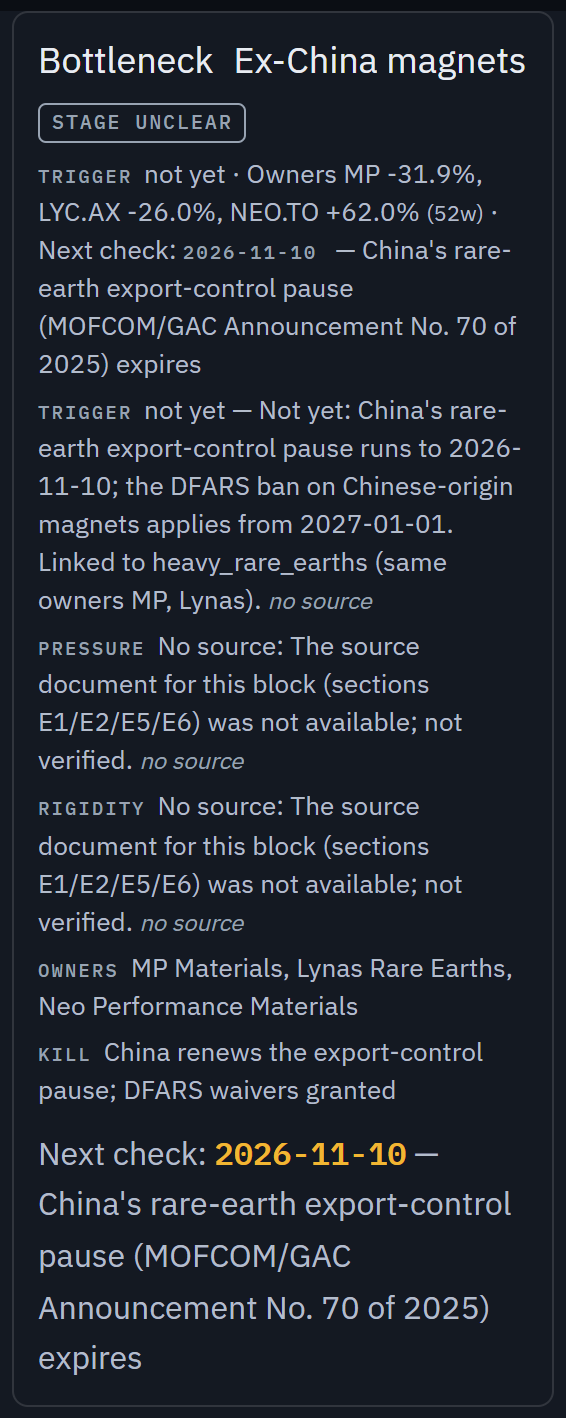
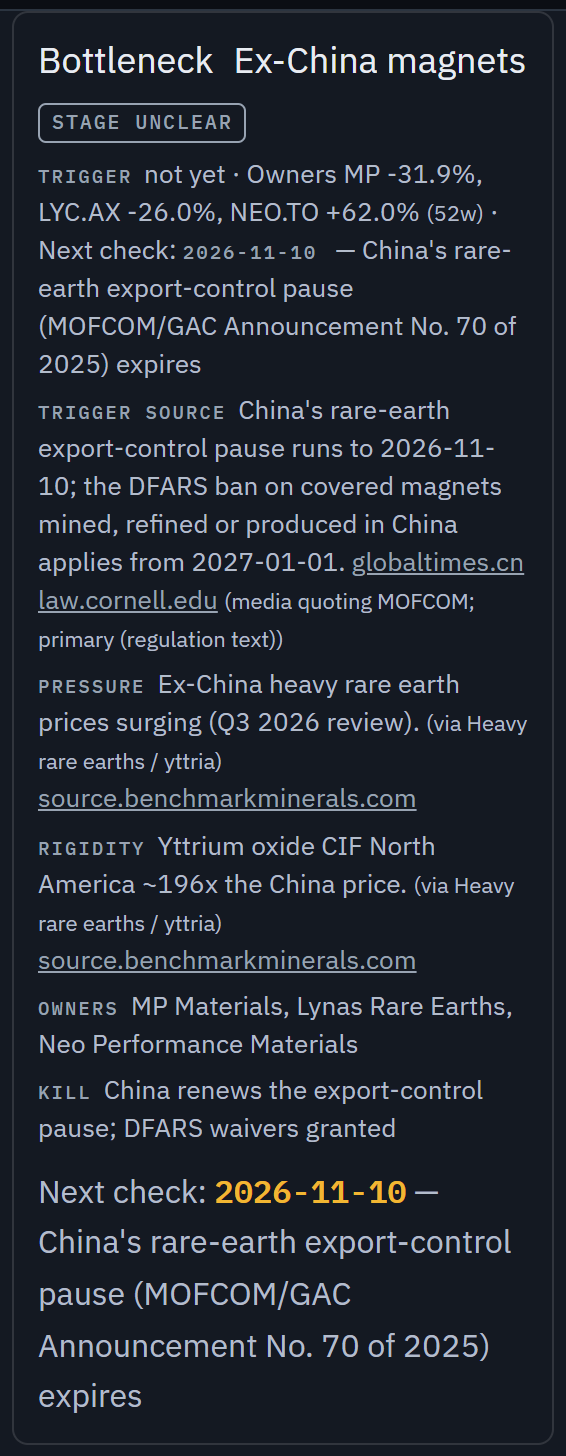
Tier-A: sourced triggers, card rules, dot rule
Sources from tier-a-sources-2026-10-02.md plus three primaries found:
BHI half-year report (DART), Wartsila half-year report, PFISTERER H1
report. All four energy triggers are fired on a fetched source; S&P
Global (403) is not used. exchina_magnets links its pressure and rigidity
to heavy_rare_earths and carries the MOFCOM (via Global Times) and DFARS
sources on its trigger.

Cards: unsourced or empty rows are hidden; a bottleneck with neither a
sourced pressure nor a sourced rigidity is not rendered (card, ring or
dot); one trigger summary line plus a "Trigger source" line; English-only
catalyst labels. The not-yet dot skips owners up 100%+ over 52 weeks.
hv_cable_accessories no longer maps hurt to cable makers.

diff --git a/chains/templates/live-map.html b/chains/templates/live-map.html
@@ -778,15 +778,27 @@ const cls=v=>v==null?'':(v<0?'neg':'pos');
 // Text from the data, made safe to put inside HTML. This script has no esc() of
 // its own -- the card scripts further down do, in their own scope.
 const escHtml=v=>String(v==null?'':v).replace(/[&<>"]/g, c=>({'&':'&amp;','<':'&lt;','>':'&gt;','"':'&quot;'}[c]));
-const BN = {lagLegend:'הטריגר הופעל, המחיר לא הלך אחריו. תיאור, לא תחזית.', nyLegend:'הטריגר עוד לא הופעל. מוצג מועד הבדיקה הבא. תיאור, לא תחזית.', fired:'הטריגר הופעל', node:'התחנה הזו', leader:'המובילה', exp:'חשיפה', expW:{low:'נמוכה',medium:'בינונית',high:'גבוהה'}, cyc:{peaking:'המחזור בשיא',resolving:'המחזור נרגע'}, risk:'סיכון שיא', next:'הבדיקה הבאה', title:'צוואר בקבוק', stage:{tightening:'מתהדק',peaking:'בשיא',resolving:'נרגע',unclear:'שלב לא ברור'}, trig:{fired:'הופעל',not_yet:'עוד לא',unclear:'לא ברור'}, pressure:'לחץ', rigidity:'קשיחות', trigger:'טריגר', owners:'בעלים', hurt:'נפגעים (יורד אם כן)', prop:'התפשטות', kill:'תנאי ביטול', src:'מקור', nosrc:'אין מקור'};
+const BN = {lagLegend:'הטריגר הופעל, המחיר לא הלך אחריו. תיאור, לא תחזית.', nyLegend:'הטריגר עוד לא הופעל. מוצג מועד הבדיקה הבא. תיאור, לא תחזית.', tsrc:'מקור הטריגר', via:'דרך', fired:'הטריגר הופעל', node:'התחנה הזו', leader:'המובילה', exp:'חשיפה', expW:{low:'נמוכה',medium:'בינונית',high:'גבוהה'}, cyc:{peaking:'המחזור בשיא',resolving:'המחזור נרגע'}, risk:'סיכון שיא', next:'הבדיקה הבאה', title:'צוואר בקבוק', stage:{tightening:'מתהדק',peaking:'בשיא',resolving:'נרגע',unclear:'שלב לא ברור'}, trig:{fired:'הופעל',not_yet:'עוד לא',unclear:'לא ברור'}, pressure:'לחץ', rigidity:'קשיחות', trigger:'טריגר', owners:'בעלים', hurt:'נפגעים (יורד אם כן)', prop:'התפשטות', kill:'תנאי ביטול', src:'מקור', nosrc:'אין מקור'};
 // Bottlenecks (map.json "bottlenecks"). The lagging line and ring are a
 // DESCRIPTION -- a fired trigger whose ring has not followed -- and never a
 // forecast: nothing here is scored. See chains/lagging.py.
-function lagOf(n){ const l=(n.bn||[]).filter(e=>e.kind==='lag'&&e.lagging);
+function lagOf(n){ const l=(n.bn||[]).filter(e=>e.kind==='lag'&&e.lagging&&bnPublicId(e.b));
   return l.length ? {half:l.every(e=>e.exposure==='high')} : null; }
-function bnLines(n){ return (n.bn||[]).map(e=> e.kind==='lag'
+function bnLines(n){ return (n.bn||[]).filter(e=>bnPublicId(e.b)).map(e=> e.kind==='lag'
   ? `<div class="bnlag${e.lagging?' on':''}" data-bn="${e.b}" data-lagging="${e.lagging}">${BN.fired} ${e.fired||''} · ${BN.node} ${pct(e.ret)} · ${BN.leader} ${escHtml((byId[e.leader_id]||{}).name||e.leader_id)} ${pct(e.leader_ret)} · ${BN.exp}: ${e.exposure?BN.expW[e.exposure]:'—'}</div>`
   : `<span class="cyc" data-bn="${e.b}">${BN.cyc[e.stage]||e.stage} · ${BN.risk} ${e.top_risk}/7</span>`).join(''); }
+// A card shows only sourced rows. A field may point at another bottleneck's
+// field ({see: id}) instead of repeating its text; it then shows that one's
+// sourced text, marked "via". A bottleneck with neither a sourced pressure nor
+// a sourced rigidity is not rendered at all -- no card, no ring, no dot.
+function bnById(id){ const F=(typeof FOCUS!=='undefined'&&FOCUS)||{}; return (F.bottlenecks||[]).find(b=>b.id===id); }
+function bnField(b, k){ const f=(b&&b[k])||{};
+  if(f.see){ const o=bnById(f.see), g=o&&o[k]; return g&&g.source_url?{...g, via:o.name}:null; }
+  return f.source_url?f:null; }
+const bnPublic=b=>!!(bnField(b,'pressure')||bnField(b,'rigidity'));
+let BNPUB=null;
+function bnPublicId(id){ if(!BNPUB){ const F=(typeof FOCUS!=='undefined'&&FOCUS)||{};
+    BNPUB=new Set((F.bottlenecks||[]).filter(bnPublic).map(b=>b.id)); } return BNPUB.has(id); }
 // The next check for a bottleneck: the earliest dated catalyst on or after the
 // snapshot's date, else the first one whose date is not confirmed (shown as such).
 function nextCheck(b){ const F=(typeof FOCUS!=='undefined'&&FOCUS)||{}, today=String(D.as_of||'');
@@ -805,27 +817,30 @@ function bnSummary(b){ const t=b.trigger||{}, nx=nextCheck(b);
 // dated next check inside 120 days.
 let NOTYET=null;
 function notYetOf(n){ if(!NOTYET){ const F=(typeof FOCUS!=='undefined'&&FOCUS)||{}, t0=Date.parse(String(D.as_of||''));
-    NOTYET=new Set(); (F.bottlenecks||[]).forEach(b=>{ if((b.trigger||{}).status!=='not_yet') return;
+    NOTYET=new Set(); (F.bottlenecks||[]).forEach(b=>{ if((b.trigger||{}).status!=='not_yet'||!bnPublic(b)) return;
       const nx=nextCheck(b), d=nx&&nx.date?(Date.parse(nx.date)-t0)/864e5:NaN;
-      if(d>=0&&d<=120) (b.owners||[]).forEach(i=>NOTYET.add(i)); }); }
+      // an owner already up 100% or more over 52 weeks is near or priced: no dot
+      if(d>=0&&d<=120) (b.owners||[]).forEach(i=>{ const px=byId[i]&&byId[i].px;
+        if(!(px&&px.r52w!=null&&px.r52w>=1.0)) NOTYET.add(i); }); }); }
   return NOTYET.has(n.id); }
 function bnCard(b, nid){
   const F=(typeof FOCUS!=='undefined'&&FOCUS)||{}, t=b.trigger||{}, today=String(D.as_of||'');
   const nm=i=>escHtml(byId[i]?byId[i].name:i);
-  const src=o=>o&&o.source_url?` <a href="${escHtml(o.source_url)}" target="_blank" rel="noopener">${BN.src}</a>`:` <span class="nosrc">${BN.nosrc}</span>`;
+  const src=o=>srcRefs(o&&o.source_url).filter(srcIsUrl).map(u=>` <a href="${escHtml(u)}" target="_blank" rel="noopener">${escHtml(srcHost(u))}</a>`).join('')
+    + (o&&o.source_type?` <small>(${escHtml(o.source_type)})</small>`:'');
+  const row=(l,f)=>f?`<div class="bnrow"><b>${l}</b>${escHtml(f.text||'')}${f.via?` <small>(${BN.via} ${escHtml(f.via)})</small>`:''}${src(f)}</div>`:'';
   const list=(l,ids)=>(ids||[]).length?`<div class="bnrow"><b>${l}</b>${ids.map(nm).join(', ')}</div>`:'';
   const nx=nextCheck(b);
   return `<div class="bnbox" data-bottleneck="${b.id}"><div class="bnhead"><span class="cpid">${BN.title}</span><span class="cpn">${escHtml(b.name)}</span><span class="bnstage s-${b.stage}">${BN.stage[b.stage]||b.stage}${b.top_risk?` · ${BN.risk} ${b.top_risk}/7`:''}</span></div>`
     + bnSummary(b)
-    + `<div class="bnrow"><b>${BN.trigger}</b><span class="trs t-${t.status}">${BN.trig[t.status]||t.status}</span>${t.date?' · '+t.date:''} — ${escHtml(t.what||'')}${src(t)}${t.source_type?` <small>(${t.source_type})</small>`:''}</div>`
-    + `<div class="bnrow"><b>${BN.pressure}</b>${escHtml((b.pressure||{}).text)}${src(b.pressure)}</div>`
-    + `<div class="bnrow"><b>${BN.rigidity}</b>${escHtml((b.rigidity||{}).text)}${src(b.rigidity)}</div>`
+    + (t.source_url?`<div class="bnrow" data-trigger-source><b>${BN.tsrc}</b>${t.date?escHtml(t.date)+' — ':''}${escHtml(t.what||'')}${src(t)}</div>`:'')
+    + row(BN.pressure, bnField(b,'pressure')) + row(BN.rigidity, bnField(b,'rigidity'))
     + list(BN.owners,b.owners)+list(BN.hurt,b.hurt)+list(BN.prop,b.propagation)
     + ((b.kill||[]).length?`<div class="bnrow"><b>${BN.kill}</b>${b.kill.map(k=>escHtml(k.criterion)+(k.date?' ('+k.date+')':'')).join('; ')}</div>`:'')
     + (nx?`<div class="nextcp" data-next-check>${BN.next}: <b>${escHtml(nx.date_text||nx.date)}</b> — ${escHtml(nx.what)}</div>`:'')
     + `</div>`; }
 function bnCards(n){ const F=(typeof FOCUS!=='undefined'&&FOCUS)||{};
-  return (F.bottlenecks||[]).filter(b=>[...b.owners,...b.hurt,...b.propagation].includes(n.id)).map(b=>bnCard(b,n.id)).join(''); }
+  return (F.bottlenecks||[]).filter(b=>bnPublic(b)&&[...b.owners,...b.hurt,...b.propagation].includes(n.id)).map(b=>bnCard(b,n.id)).join(''); }
 
 // A source is a list of references (a single string in an older snapshot), and
 // every URL in it is its own link: joined into one href they opened nothing.

diff --git a/chains/templates/live-map-en.html b/chains/templates/live-map-en.html
@@ -778,15 +778,27 @@ const cls=v=>v==null?'':(v<0?'neg':'pos');
 // Text from the data, made safe to put inside HTML. This script has no esc() of
 // its own -- the card scripts further down do, in their own scope.
 const escHtml=v=>String(v==null?'':v).replace(/[&<>"]/g, c=>({'&':'&amp;','<':'&lt;','>':'&gt;','"':'&quot;'}[c]));
-const BN = {lagLegend:'Trigger fired, price has not followed. Descriptive, not a forecast.', nyLegend:'Trigger not yet fired. Next dated check shown. Descriptive, not a forecast.', fired:'Trigger fired', node:'this node', leader:'leader', exp:'exposure', expW:{low:'low',medium:'medium',high:'high'}, cyc:{peaking:'cycle peaking',resolving:'cycle easing'}, risk:'top risk', next:'Next check', title:'Bottleneck', stage:{tightening:'tightening',peaking:'peaking',resolving:'resolving',unclear:'stage unclear'}, trig:{fired:'fired',not_yet:'not yet',unclear:'unclear'}, pressure:'Pressure', rigidity:'Rigidity', trigger:'Trigger', owners:'Owners', hurt:'Hurt (down if YES)', prop:'Propagation', kill:'Kill', src:'source', nosrc:'no source'};
+const BN = {lagLegend:'Trigger fired, price has not followed. Descriptive, not a forecast.', nyLegend:'Trigger not yet fired. Next dated check shown. Descriptive, not a forecast.', tsrc:'Trigger source', via:'via', fired:'Trigger fired', node:'this node', leader:'leader', exp:'exposure', expW:{low:'low',medium:'medium',high:'high'}, cyc:{peaking:'cycle peaking',resolving:'cycle easing'}, risk:'top risk', next:'Next check', title:'Bottleneck', stage:{tightening:'tightening',peaking:'peaking',resolving:'resolving',unclear:'stage unclear'}, trig:{fired:'fired',not_yet:'not yet',unclear:'unclear'}, pressure:'Pressure', rigidity:'Rigidity', trigger:'Trigger', owners:'Owners', hurt:'Hurt (down if YES)', prop:'Propagation', kill:'Kill', src:'source', nosrc:'no source'};
 // Bottlenecks (map.json "bottlenecks"). The lagging line and ring are a
 // DESCRIPTION -- a fired trigger whose ring has not followed -- and never a
 // forecast: nothing here is scored. See chains/lagging.py.
-function lagOf(n){ const l=(n.bn||[]).filter(e=>e.kind==='lag'&&e.lagging);
+function lagOf(n){ const l=(n.bn||[]).filter(e=>e.kind==='lag'&&e.lagging&&bnPublicId(e.b));
   return l.length ? {half:l.every(e=>e.exposure==='high')} : null; }
-function bnLines(n){ return (n.bn||[]).map(e=> e.kind==='lag'
+function bnLines(n){ return (n.bn||[]).filter(e=>bnPublicId(e.b)).map(e=> e.kind==='lag'
   ? `<div class="bnlag${e.lagging?' on':''}" data-bn="${e.b}" data-lagging="${e.lagging}">${BN.fired} ${e.fired||''} · ${BN.node} ${pct(e.ret)} · ${BN.leader} ${escHtml((byId[e.leader_id]||{}).name||e.leader_id)} ${pct(e.leader_ret)} · ${BN.exp}: ${e.exposure?BN.expW[e.exposure]:'—'}</div>`
   : `<span class="cyc" data-bn="${e.b}">${BN.cyc[e.stage]||e.stage} · ${BN.risk} ${e.top_risk}/7</span>`).join(''); }
+// A card shows only sourced rows. A field may point at another bottleneck's
+// field ({see: id}) instead of repeating its text; it then shows that one's
+// sourced text, marked "via". A bottleneck with neither a sourced pressure nor
+// a sourced rigidity is not rendered at all -- no card, no ring, no dot.
+function bnById(id){ const F=(typeof FOCUS!=='undefined'&&FOCUS)||{}; return (F.bottlenecks||[]).find(b=>b.id===id); }
+function bnField(b, k){ const f=(b&&b[k])||{};
+  if(f.see){ const o=bnById(f.see), g=o&&o[k]; return g&&g.source_url?{...g, via:o.name}:null; }
+  return f.source_url?f:null; }
+const bnPublic=b=>!!(bnField(b,'pressure')||bnField(b,'rigidity'));
+let BNPUB=null;
+function bnPublicId(id){ if(!BNPUB){ const F=(typeof FOCUS!=='undefined'&&FOCUS)||{};
+    BNPUB=new Set((F.bottlenecks||[]).filter(bnPublic).map(b=>b.id)); } return BNPUB.has(id); }
 // The next check for a bottleneck: the earliest dated catalyst on or after the
 // snapshot's date, else the first one whose date is not confirmed (shown as such).
 function nextCheck(b){ const F=(typeof FOCUS!=='undefined'&&FOCUS)||{}, today=String(D.as_of||'');
@@ -805,27 +817,30 @@ function bnSummary(b){ const t=b.trigger||{}, nx=nextCheck(b);
 // dated next check inside 120 days.
 let NOTYET=null;
 function notYetOf(n){ if(!NOTYET){ const F=(typeof FOCUS!=='undefined'&&FOCUS)||{}, t0=Date.parse(String(D.as_of||''));
-    NOTYET=new Set(); (F.bottlenecks||[]).forEach(b=>{ if((b.trigger||{}).status!=='not_yet') return;
+    NOTYET=new Set(); (F.bottlenecks||[]).forEach(b=>{ if((b.trigger||{}).status!=='not_yet'||!bnPublic(b)) return;
       const nx=nextCheck(b), d=nx&&nx.date?(Date.parse(nx.date)-t0)/864e5:NaN;
-      if(d>=0&&d<=120) (b.owners||[]).forEach(i=>NOTYET.add(i)); }); }
+      // an owner already up 100% or more over 52 weeks is near or priced: no dot
+      if(d>=0&&d<=120) (b.owners||[]).forEach(i=>{ const px=byId[i]&&byId[i].px;
+        if(!(px&&px.r52w!=null&&px.r52w>=1.0)) NOTYET.add(i); }); }); }
   return NOTYET.has(n.id); }
 function bnCard(b, nid){
   const F=(typeof FOCUS!=='undefined'&&FOCUS)||{}, t=b.trigger||{}, today=String(D.as_of||'');
   const nm=i=>escHtml(byId[i]?byId[i].name:i);
-  const src=o=>o&&o.source_url?` <a href="${escHtml(o.source_url)}" target="_blank" rel="noopener">${BN.src}</a>`:` <span class="nosrc">${BN.nosrc}</span>`;
+  const src=o=>srcRefs(o&&o.source_url).filter(srcIsUrl).map(u=>` <a href="${escHtml(u)}" target="_blank" rel="noopener">${escHtml(srcHost(u))}</a>`).join('')
+    + (o&&o.source_type?` <small>(${escHtml(o.source_type)})</small>`:'');
+  const row=(l,f)=>f?`<div class="bnrow"><b>${l}</b>${escHtml(f.text||'')}${f.via?` <small>(${BN.via} ${escHtml(f.via)})</small>`:''}${src(f)}</div>`:'';
   const list=(l,ids)=>(ids||[]).length?`<div class="bnrow"><b>${l}</b>${ids.map(nm).join(', ')}</div>`:'';
   const nx=nextCheck(b);
   return `<div class="bnbox" data-bottleneck="${b.id}"><div class="bnhead"><span class="cpid">${BN.title}</span><span class="cpn">${escHtml(b.name)}</span><span class="bnstage s-${b.stage}">${BN.stage[b.stage]||b.stage}${b.top_risk?` · ${BN.risk} ${b.top_risk}/7`:''}</span></div>`
     + bnSummary(b)
-    + `<div class="bnrow"><b>${BN.trigger}</b><span class="trs t-${t.status}">${BN.trig[t.status]||t.status}</span>${t.date?' · '+t.date:''} — ${escHtml(t.what||'')}${src(t)}${t.source_type?` <small>(${t.source_type})</small>`:''}</div>`
-    + `<div class="bnrow"><b>${BN.pressure}</b>${escHtml((b.pressure||{}).text)}${src(b.pressure)}</div>`
-    + `<div class="bnrow"><b>${BN.rigidity}</b>${escHtml((b.rigidity||{}).text)}${src(b.rigidity)}</div>`
+    + (t.source_url?`<div class="bnrow" data-trigger-source><b>${BN.tsrc}</b>${t.date?escHtml(t.date)+' — ':''}${escHtml(t.what||'')}${src(t)}</div>`:'')
+    + row(BN.pressure, bnField(b,'pressure')) + row(BN.rigidity, bnField(b,'rigidity'))
     + list(BN.owners,b.owners)+list(BN.hurt,b.hurt)+list(BN.prop,b.propagation)
     + ((b.kill||[]).length?`<div class="bnrow"><b>${BN.kill}</b>${b.kill.map(k=>escHtml(k.criterion)+(k.date?' ('+k.date+')':'')).join('; ')}</div>`:'')
     + (nx?`<div class="nextcp" data-next-check>${BN.next}: <b>${escHtml(nx.date_text||nx.date)}</b> — ${escHtml(nx.what)}</div>`:'')
     + `</div>`; }
 function bnCards(n){ const F=(typeof FOCUS!=='undefined'&&FOCUS)||{};
-  return (F.bottlenecks||[]).filter(b=>[...b.owners,...b.hurt,...b.propagation].includes(n.id)).map(b=>bnCard(b,n.id)).join(''); }
+  return (F.bottlenecks||[]).filter(b=>bnPublic(b)&&[...b.owners,...b.hurt,...b.propagation].includes(n.id)).map(b=>bnCard(b,n.id)).join(''); }
 
 // A source is a list of references (a single string in an older snapshot), and
 // every URL in it is its own link: joined into one href they opened nothing.

diff --git a/chains/build_pages.py b/chains/build_pages.py
@@ -196,8 +196,8 @@ TRANSLATIONS = [
  ("  const CONF = {lbl:'ודאות', lv:{S:'גבוהה', M:'בינונית', W:'נמוכה'}};",
   "  const CONF = {lbl:'Confidence', lv:{S:'strong', M:'medium', W:'weak'}};"),
  # The bottleneck card, the lagging line and the legend row.
- ("const BN = {lagLegend:'הטריגר הופעל, המחיר לא הלך אחריו. תיאור, לא תחזית.', nyLegend:'הטריגר עוד לא הופעל. מוצג מועד הבדיקה הבא. תיאור, לא תחזית.', fired:'הטריגר הופעל', node:'התחנה הזו', leader:'המובילה', exp:'חשיפה', expW:{low:'נמוכה',medium:'בינונית',high:'גבוהה'}, cyc:{peaking:'המחזור בשיא',resolving:'המחזור נרגע'}, risk:'סיכון שיא', next:'הבדיקה הבאה', title:'צוואר בקבוק', stage:{tightening:'מתהדק',peaking:'בשיא',resolving:'נרגע',unclear:'שלב לא ברור'}, trig:{fired:'הופעל',not_yet:'עוד לא',unclear:'לא ברור'}, pressure:'לחץ', rigidity:'קשיחות', trigger:'טריגר', owners:'בעלים', hurt:'נפגעים (יורד אם כן)', prop:'התפשטות', kill:'תנאי ביטול', src:'מקור', nosrc:'אין מקור'};",
-  "const BN = {lagLegend:'Trigger fired, price has not followed. Descriptive, not a forecast.', nyLegend:'Trigger not yet fired. Next dated check shown. Descriptive, not a forecast.', fired:'Trigger fired', node:'this node', leader:'leader', exp:'exposure', expW:{low:'low',medium:'medium',high:'high'}, cyc:{peaking:'cycle peaking',resolving:'cycle easing'}, risk:'top risk', next:'Next check', title:'Bottleneck', stage:{tightening:'tightening',peaking:'peaking',resolving:'resolving',unclear:'stage unclear'}, trig:{fired:'fired',not_yet:'not yet',unclear:'unclear'}, pressure:'Pressure', rigidity:'Rigidity', trigger:'Trigger', owners:'Owners', hurt:'Hurt (down if YES)', prop:'Propagation', kill:'Kill', src:'source', nosrc:'no source'};"),
+ ("const BN = {lagLegend:'הטריגר הופעל, המחיר לא הלך אחריו. תיאור, לא תחזית.', nyLegend:'הטריגר עוד לא הופעל. מוצג מועד הבדיקה הבא. תיאור, לא תחזית.', tsrc:'מקור הטריגר', via:'דרך', fired:'הטריגר הופעל', node:'התחנה הזו', leader:'המובילה', exp:'חשיפה', expW:{low:'נמוכה',medium:'בינונית',high:'גבוהה'}, cyc:{peaking:'המחזור בשיא',resolving:'המחזור נרגע'}, risk:'סיכון שיא', next:'הבדיקה הבאה', title:'צוואר בקבוק', stage:{tightening:'מתהדק',peaking:'בשיא',resolving:'נרגע',unclear:'שלב לא ברור'}, trig:{fired:'הופעל',not_yet:'עוד לא',unclear:'לא ברור'}, pressure:'לחץ', rigidity:'קשיחות', trigger:'טריגר', owners:'בעלים', hurt:'נפגעים (יורד אם כן)', prop:'התפשטות', kill:'תנאי ביטול', src:'מקור', nosrc:'אין מקור'};",
+  "const BN = {lagLegend:'Trigger fired, price has not followed. Descriptive, not a forecast.', nyLegend:'Trigger not yet fired. Next dated check shown. Descriptive, not a forecast.', tsrc:'Trigger source', via:'via', fired:'Trigger fired', node:'this node', leader:'leader', exp:'exposure', expW:{low:'low',medium:'medium',high:'high'}, cyc:{peaking:'cycle peaking',resolving:'cycle easing'}, risk:'top risk', next:'Next check', title:'Bottleneck', stage:{tightening:'tightening',peaking:'peaking',resolving:'resolving',unclear:'stage unclear'}, trig:{fired:'fired',not_yet:'not yet',unclear:'unclear'}, pressure:'Pressure', rigidity:'Rigidity', trigger:'Trigger', owners:'Owners', hurt:'Hurt (down if YES)', prop:'Propagation', kill:'Kill', src:'source', nosrc:'no source'};"),
  # The relationship diagram's phone view.
  ("  const REL = {view:'הצג קשרים', close:'סגור', title:'קשרים',\n    up:'עולה אם כן', down:'יורד אם כן', none:'אין סל רשום לשאלה הזו.',\n    scored:'טבעת שנייה · הסל הנמדד', diag:'תגובה ישירה · אבחון'};",
   "  const REL = {view:'View relationships', close:'Close', title:'Relationships',\n    up:'up if yes', down:'down if yes', none:'No basket is registered for this question.',\n    scored:'second ring · the scored basket', diag:'direct reaction · diagnostic'};"),

diff --git a/tests/test_closure.py b/tests/test_closure.py
@@ -28,10 +28,16 @@ SIGNALS = ("hike_decel_or_no_more_hikes", "all_suppliers_hiking", "capacity_x2_o
 FAILED = {"https://www.digitimes.com/news/a20260309PD233/pcb-topoint-2026-high-end-sales.html"}
 
 
+def refs(v):
+    """A source is one URL or a list of them (2026-10-02)."""
+    return v if isinstance(v, list) else [v]
+
+
 def urls(b):
-    yield b["pressure"]["source_url"]
-    yield b["rigidity"]["source_url"]
-    yield b["trigger"]["source_url"]
+    # A field may link to another bottleneck's field ({"see": id}) instead of
+    # repeating it; that field's own source is counted on its own record.
+    for k in ("pressure", "rigidity", "trigger"):
+        yield from refs(b[k].get("source_url"))
     for s in b["top_signals"].values():
         yield s["source_url"]
 
@@ -77,7 +83,7 @@ def test_no_record_types_its_own_stage():
 
 def test_nothing_fired_rests_on_a_page_that_failed_to_load():
     for b in BN:
-        if b["trigger"]["source_url"] in FAILED:
+        if set(refs(b["trigger"]["source_url"])) & FAILED:
             assert b["trigger"]["status"] == "unclear", b["id"]
 
 
@@ -94,7 +100,9 @@ def test_every_source_is_one_of_the_closure_pages():
     the two analyst pages amendment 2 supplied for commodity DRAM (2026-10-02)."""
     allowed = {s for b in BN for s in urls(b) if s}
     # + 2 more (TrendForce 2026-07-03, Tom's Hardware 2026-07-04), stage rules.
-    assert len(allowed) <= 24 + 2 + 2
+    # + 2 more (2026-10-02, exchina_magnets trigger): the MOFCOM pause as reported
+    # by Global Times, and the DFARS 252.225-7052 text.
+    assert len(allowed) <= 24 + 2 + 2 + 2
     for e in DOC["edges"]:
         if e.get("source_type"):
             assert e["source"] in allowed | FAILED or e["source"].startswith("https://"), e

diff --git a/tests/test_domains.py b/tests/test_domains.py
@@ -114,11 +114,12 @@ def test_the_repository_carries_at_least_the_default_domain():
 # EW_MAP is frozen per commitment (chains/ew_universe.py), so this did not
 # move any benchmark.
 # Moved again on purpose 2026-10-02 (watchlist tier A): node neo and the
-# exchina_magnets bottleneck with its two catalysts. New nodes are in no
+# exchina_magnets bottleneck with its two catalysts, then its sourced trigger and
+# its pressure/rigidity linked to heavy_rare_earths. New nodes are in no
 # committed question's frozen EW universe.
 GOLD = {
[4 lines of base64/hex data omitted]
 }
 MOVED = ("the first domain's output moved. If the map changed on purpose, "
          "update the hash here in the same commit and say so; if it did not, "
